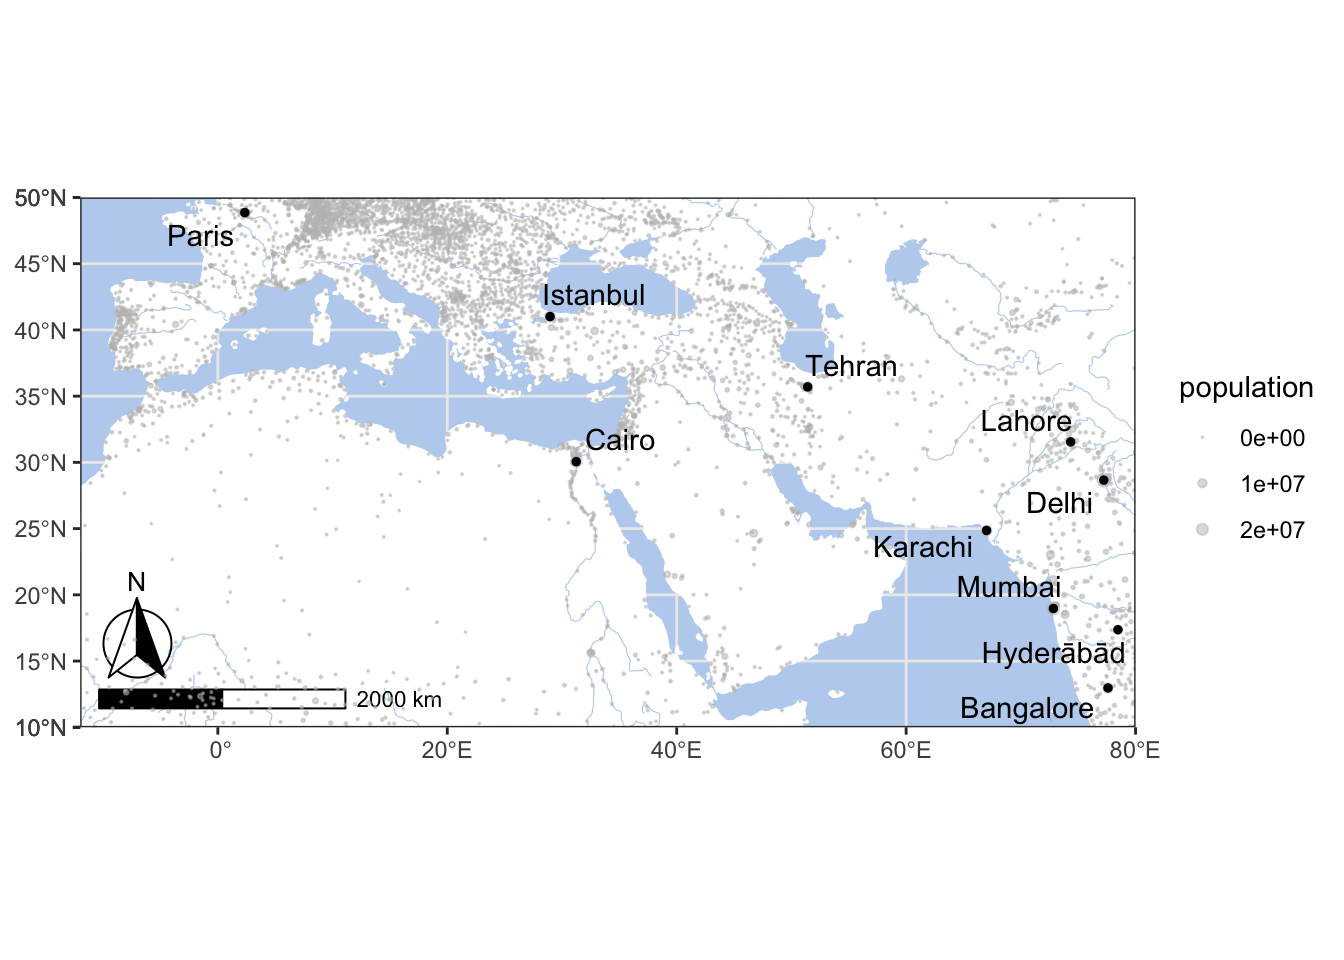
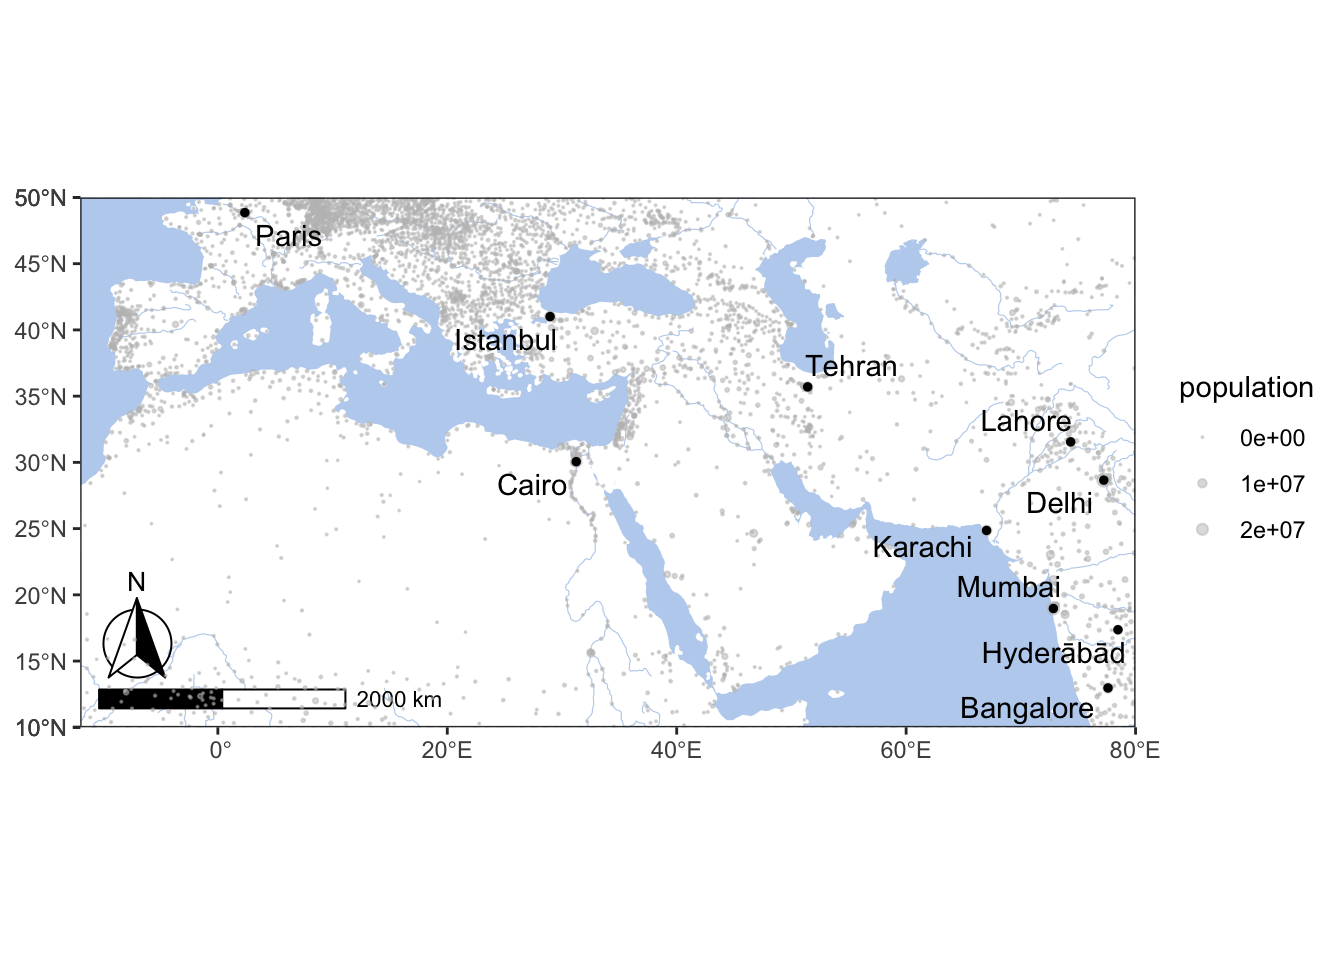
Update the book

diff --git a/l08-gis-ii.html b/l08-gis-ii.html
@@ -661,7 +661,8 @@ install.packages(&quot;raster&quot;, &quot;rgdal&quot;)</code></pre>
 <span id="cb50-13"><a href="l08-gis-ii.html#cb50-13" aria-hidden="true" tabindex="-1"></a></span>
 <span id="cb50-14"><a href="l08-gis-ii.html#cb50-14" aria-hidden="true" tabindex="-1"></a>themeParameters <span class="ot">&lt;-</span> <span class="fu">theme</span>(<span class="at">panel.background =</span> <span class="fu">element_rect</span>(<span class="at">fill =</span> waterColor),</span>
 <span id="cb50-15"><a href="l08-gis-ii.html#cb50-15" aria-hidden="true" tabindex="-1"></a>          <span class="at">axis.title.y=</span><span class="fu">element_blank</span>(),</span>
-<span id="cb50-16"><a href="l08-gis-ii.html#cb50-16" aria-hidden="true" tabindex="-1"></a>          <span class="at">axis.title.x=</span><span class="fu">element_blank</span>())</span></code></pre></div>
+<span id="cb50-16"><a href="l08-gis-ii.html#cb50-16" aria-hidden="true" tabindex="-1"></a>          <span class="at">axis.title.x=</span><span class="fu">element_blank</span>(),</span>
+<span id="cb50-17"><a href="l08-gis-ii.html#cb50-17" aria-hidden="true" tabindex="-1"></a>          <span class="at">panel.grid.major =</span> <span class="fu">element_line</span>(<span class="at">color =</span> waterColor, <span class="at">linetype =</span> <span class="st">&quot;dotted&quot;</span>, <span class="at">size =</span> <span class="fl">0.5</span>))</span></code></pre></div>
 <p>Now we can build the same map with just this:</p>
 <div class="sourceCode" id="cb51"><pre class="sourceCode r"><code class="sourceCode r"><span id="cb51-1"><a href="l08-gis-ii.html#cb51-1" aria-hidden="true" tabindex="-1"></a>baseplot <span class="sc">+</span> themeParameters</span></code></pre></div>
 <pre><code>## Scale on map varies by more than 10%, scale bar may be inaccurate</code></pre>
@@ -696,14 +697,35 @@ install.packages(&quot;raster&quot;, &quot;rgdal&quot;)</code></pre>
 <span id="cb55-10"><a href="l08-gis-ii.html#cb55-10" aria-hidden="true" tabindex="-1"></a>  <span class="fu">top_n</span>(<span class="dv">10</span>, <span class="at">wt =</span> population)</span>
 <span id="cb55-11"><a href="l08-gis-ii.html#cb55-11" aria-hidden="true" tabindex="-1"></a>  </span>
 <span id="cb55-12"><a href="l08-gis-ii.html#cb55-12" aria-hidden="true" tabindex="-1"></a></span>
-<span id="cb55-13"><a href="l08-gis-ii.html#cb55-13" aria-hidden="true" tabindex="-1"></a>baseplot <span class="sc">+</span> </span>
+<span id="cb55-13"><a href="l08-gis-ii.html#cb55-13" aria-hidden="true" tabindex="-1"></a>graph01 <span class="ot">&lt;-</span> baseplot <span class="sc">+</span> </span>
 <span id="cb55-14"><a href="l08-gis-ii.html#cb55-14" aria-hidden="true" tabindex="-1"></a>  <span class="fu">geom_point</span>(<span class="at">data =</span> wc_filtered, <span class="fu">aes</span>(<span class="at">x=</span>lng, <span class="at">y=</span>lat, <span class="at">size=</span>population), <span class="at">alpha =</span> <span class="fl">0.5</span>, <span class="at">col=</span><span class="st">&quot;grey&quot;</span>) <span class="sc">+</span></span>
 <span id="cb55-15"><a href="l08-gis-ii.html#cb55-15" aria-hidden="true" tabindex="-1"></a>  <span class="fu">scale_size</span>(<span class="at">range=</span><span class="fu">c</span>(<span class="fl">0.01</span>, <span class="dv">2</span>)) <span class="sc">+</span></span>
 <span id="cb55-16"><a href="l08-gis-ii.html#cb55-16" aria-hidden="true" tabindex="-1"></a>  <span class="fu">geom_point</span>(<span class="at">data =</span> top_cities, <span class="fu">aes</span>(<span class="at">x=</span>lng, <span class="at">y=</span>lat), <span class="at">col=</span><span class="st">&quot;black&quot;</span>, <span class="at">size=</span><span class="dv">1</span>) <span class="sc">+</span></span>
 <span id="cb55-17"><a href="l08-gis-ii.html#cb55-17" aria-hidden="true" tabindex="-1"></a>  <span class="fu">geom_text_repel</span>(<span class="at">data =</span> top_cities, <span class="fu">aes</span>(<span class="at">x=</span>lng, <span class="at">y=</span>lat, <span class="at">label =</span> city), <span class="at">force =</span> <span class="dv">2</span>, <span class="at">segment.alpha =</span> <span class="dv">0</span>) <span class="sc">+</span> </span>
-<span id="cb55-18"><a href="l08-gis-ii.html#cb55-18" aria-hidden="true" tabindex="-1"></a>  themeParameters</span></code></pre></div>
+<span id="cb55-18"><a href="l08-gis-ii.html#cb55-18" aria-hidden="true" tabindex="-1"></a>  themeParameters</span>
+<span id="cb55-19"><a href="l08-gis-ii.html#cb55-19" aria-hidden="true" tabindex="-1"></a></span>
+<span id="cb55-20"><a href="l08-gis-ii.html#cb55-20" aria-hidden="true" tabindex="-1"></a>graph01</span></code></pre></div>
 <pre><code>## Scale on map varies by more than 10%, scale bar may be inaccurate</code></pre>
 <p><img src="RGIS2021S_files/figure-html/unnamed-chunk-25-1.png" width="672" /></p>
+<p>There are plenty ofo things that can be done in orde rto improve the overall look of your maps. One of the things to know an dremember is that yoou can save your map into a separate image file (PNG, TIFF, of JPG — for raster images; SVG or PDF for vector images.) The most simple saving command looks like the following:</p>
+<div class="sourceCode" id="cb57"><pre class="sourceCode r"><code class="sourceCode r"><span id="cb57-1"><a href="l08-gis-ii.html#cb57-1" aria-hidden="true" tabindex="-1"></a><span class="fu">ggsave</span>(<span class="st">&quot;Our_Map.png&quot;</span>, <span class="at">plot=</span>graph01, <span class="at">width =</span> <span class="dv">420</span>, <span class="at">height =</span> <span class="dv">297</span>, <span class="at">units =</span> <span class="st">&quot;mm&quot;</span>, <span class="at">dpi =</span> <span class="st">&quot;retina&quot;</span>)</span></code></pre></div>
+<pre><code>## Scale on map varies by more than 10%, scale bar may be inaccurate</code></pre>
+<div class="sourceCode" id="cb59"><pre class="sourceCode r"><code class="sourceCode r"><span id="cb59-1"><a href="l08-gis-ii.html#cb59-1" aria-hidden="true" tabindex="-1"></a><span class="fu">ggsave</span>(<span class="st">&quot;Our_Map.svg&quot;</span>, <span class="at">plot=</span>graph01)</span></code></pre></div>
+<pre><code>## Saving 7 x 5 in image
+## Scale on map varies by more than 10%, scale bar may be inaccurate</code></pre>
+<p>By the way, in order to add an image file to your notebook, all you need to use id the following line of code (you add it on a separate line, <strong>not</strong> enclosing it in <code>\</code>``{r} … ``` ` !):</p>
+<pre><code>![](path_t_your_file.png)</code></pre>
+<pre><code>library(grid) # grid library cuts out the plot from the graph
+
+gt &lt;- ggplot_gtable(ggplot_build(graph01))
+ge &lt;- subset(gt$layout, name == &quot;panel&quot;)
+
+ggsave(file=paste0(&quot;graph01.png&quot;),
+       # the following line focuses on the graph
+       plot=grid.draw(gt[ge$t:ge$b, ge$l:ge$r]),
+       # width and height should be experimentally adjusted to remove white space
+       dpi=300,width=8.85,height=4.45)</code></pre>
+<p><img src="graph01.png" /></p>
 </div>
 </div>
 <div id="HW08" class="section level2" number="8.3">
